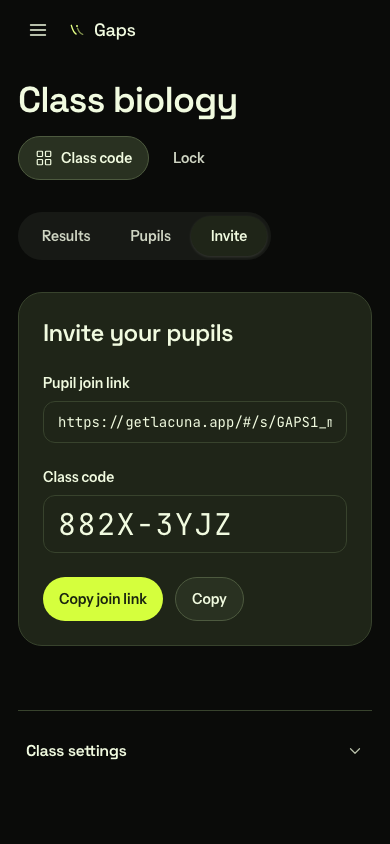
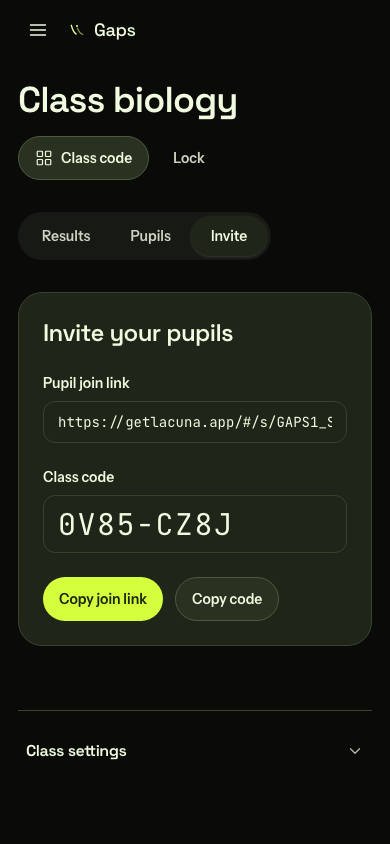
Handle classroom bursts of class-code lookups
Shard class-code counters, back off CAS contention and retry temporary client lookup failures. Keep other limiter scopes unchanged and refresh the Copy code evidence.

diff --git a/relay/tests/rateLimit.test.ts b/relay/tests/rateLimit.test.ts
@@ -1,0 +1,97 @@
+import { expect, it, vi } from 'vitest';
+import { handleAiMaintenanceRoute, AI_CLEANUP_GRACE_MS } from '../src/aiMaintenance.js';
+import {
+  consumeCounterPermit,
+  consumeRatePermit,
+  encodeRateRecord,
+  RATE_KEY_RE,
+  rateLimitForKey,
+} from '../src/rateLimit.js';
+import { MemoryStore } from '../src/store.js';
+
+const digest = 'a'.repeat(64);
+const shard = `ai-rate/class-code/${digest}/15`;
+
+it('accepts shard suffixes only on class-code keys and preserves legacy limits', () => {
+  expect(RATE_KEY_RE.test(shard)).toBe(true);
+  expect(rateLimitForKey(shard)).toBe(38);
+  expect(RATE_KEY_RE.test(`ai-rate/class-code/${digest}`)).toBe(true);
+  expect(rateLimitForKey(`ai-rate/class-code/${digest}`)).toBe(600);
+  for (const suffix of ['16', '-1', '00', '1/2'])
+    expect(RATE_KEY_RE.test(`ai-rate/class-code/${digest}/${suffix}`)).toBe(false);
+  for (const scope of ['pairing', 'channel-mint', 'share-mint', 'insights']) {
+    expect(RATE_KEY_RE.test(`ai-rate/${scope}/${digest}`)).toBe(true);
+    expect(RATE_KEY_RE.test(`ai-rate/${scope}/${digest}/0`)).toBe(false);
+    expect(rateLimitForKey(`ai-rate/${scope}/${digest}`)).toBe(scope === 'insights' ? 100 : 10);
+  }
+});
+
+it('tries two other distinct shards when the first shards are full', async () => {
+  const store = new MemoryStore();
+  const get = vi.spyOn(store, 'get');
+  get.mockResolvedValue({
+    body: encodeRateRecord({ version: 1, count: 38, resetAt: 3_600_000 }),
+    etag: '"1"',
+    uploadedAt: 0,
+  });
+  const request = new Request('https://relay.test');
+  expect(await consumeRatePermit(store, request, 0, 'class-code')).toBe('limited');
+  expect(new Set(get.mock.calls.map(([key]) => key)).size).toBe(3);
+  get.mockClear();
+  get
+    .mockResolvedValueOnce({
+      body: encodeRateRecord({ version: 1, count: 38, resetAt: 3_600_000 }),
+      etag: '"1"',
+      uploadedAt: 0,
+    })
+    .mockResolvedValueOnce(null);
+  expect(await consumeRatePermit(store, request, 0, 'class-code')).toBe('allowed');
+  expect(get).toHaveBeenCalledTimes(2);
+});
+
+it.each([
+  ['class-code', 8],
+  ['pairing', 5],
+] as const)('bounds %s CAS retries at %s attempts', async (scope, attempts) => {
+  const store = new MemoryStore();
+  const put = vi.spyOn(store, 'put').mockResolvedValue({ ok: false, reason: 'precondition' });
+  expect(
+    await consumeCounterPermit(store, `ai-rate/${scope}/${digest}/0`, 0, {
+      limit: 38,
+      windowMs: 3_600_000,
+    }),
+  ).toBe('unavailable');
+  expect(put).toHaveBeenCalledTimes(attempts);
+});
+
+it('retains active shards and clears expired shards and legacy counters during maintenance', async () => {
+  const store = new MemoryStore(() => 0);
+  vi.stubEnv('CRON_SECRET', 'test-cron');
+  const cleanup = async (now: number) => {
+    const response = await handleAiMaintenanceRoute(
+      store,
+      new Request('https://relay.test/ai/maintenance', {
+        headers: { Authorization: 'Bearer test-cron' },
+      }),
+      now,
+    );
+    return response.json() as Promise<{ rateRecordsDeleted: number }>;
+  };
+  const legacy = `ai-rate/class-code/${digest}`;
+  for (const [key, count] of [
+    [shard, 38],
+    [legacy, 600],
+  ] as const)
+    await store.put(key, encodeRateRecord({ version: 1, count, resetAt: 3_600_000 }), {
+      exclusive: true,
+    });
+  expect((await cleanup(AI_CLEANUP_GRACE_MS)).rateRecordsDeleted).toBe(0);
+  expect((await cleanup(AI_CLEANUP_GRACE_MS + 3_600_000)).rateRecordsDeleted).toBe(2);
+  vi.unstubAllEnvs();
+  for (const key of [shard, legacy])
+    expect(JSON.parse(new TextDecoder().decode((await store.get(key))!.body))).toEqual({
+      version: 1,
+      count: 0,
+      resetAt: 0,
+    });
+});

diff --git a/relay/src/rateLimit.ts b/relay/src/rateLimit.ts
@@ -1,4 +1,4 @@
-import { createHash } from 'node:crypto';
+import { createHash, randomInt } from 'node:crypto';
 import { canonicalEtag, type BlobStore } from './store.js';
 
 // Persisted per-address limiter for anonymous mints and AI pairing. Counters live in the same
@@ -7,7 +7,7 @@ const RATE_LIMIT = 10;
 const RATE_WINDOW_MS = 60 * 60 * 1000;
 const RATE_LIMIT_CAS_ATTEMPTS = 5;
 export const RATE_KEY_RE =
-  /^ai-rate\/(?:pairing|channel-mint|share-mint|insights|class-code)\/[0-9a-f]{64}$/;
+  /^ai-rate\/(?:(?:pairing|channel-mint|share-mint|insights)\/[0-9a-f]{64}|class-code\/[0-9a-f]{64}(?:\/(?:[0-9]|1[0-5]))?)$/;
 
 export type RateScope = 'pairing' | 'channel-mint' | 'share-mint' | 'insights' | 'class-code';
 
@@ -28,14 +28,22 @@ export async function consumeRatePermit(
   scope: RateScope,
 ): Promise<RatePermit> {
   const key = rateKey(scope, trustedClientAddress(request));
-  return consumeCounterPermit(store, key, now, {
-    limit: rateLimitForKey(key),
-    windowMs: RATE_WINDOW_MS,
-  });
+  const shards = Array.from({ length: 16 }, (_, index) => index);
+  for (let attempt = 0; attempt < (scope === 'class-code' ? 3 : 1); attempt += 1) {
+    const counterKey =
+      scope === 'class-code' ? `${key}/${shards.splice(randomInt(shards.length), 1)[0]}` : key;
+    const permit = await consumeCounterPermit(store, counterKey, now, {
+      limit: rateLimitForKey(counterKey),
+      windowMs: RATE_WINDOW_MS,
+    });
+    if (permit !== 'limited') return permit;
+  }
+  return 'limited';
 }
 
 export function rateLimitForKey(key: string): number {
-  if (key.startsWith('ai-rate/class-code/')) return 600;
+  // Retain the old unsharded limit so maintenance can decode records from before sharding.
+  if (key.startsWith('ai-rate/class-code/')) return key.split('/').length === 4 ? 38 : 600;
   return key.startsWith('ai-rate/insights/') ? 100 : RATE_LIMIT;
 }
 
@@ -46,7 +54,11 @@ export async function consumeCounterPermit(
   now: number,
   policy: { limit: number; windowMs: number },
 ): Promise<RatePermit> {
-  for (let attempt = 0; attempt < RATE_LIMIT_CAS_ATTEMPTS; attempt += 1) {
+  const classCode = key.startsWith('ai-rate/class-code/');
+  const attempts = classCode ? 8 : RATE_LIMIT_CAS_ATTEMPTS;
+  for (let attempt = 0; attempt < attempts; attempt += 1) {
+    if (classCode && attempt > 0)
+      await new Promise((resolve) => setTimeout(resolve, randomInt(5, 41)));
     const stored = await store.get(key);
     if (!stored) {
       const created = await store.put(

diff --git a/src/shareLinks/client.test.ts b/src/shareLinks/client.test.ts
@@ -231,4 +231,33 @@ it.each([404, 429])('exposes short-code lookup HTTP %s as a typed error', async 
   }).catch((cause: unknown) => cause);
   expect(error).toBeInstanceOf(ShareLinkError);
   expect(error).toMatchObject({ status, operation: 'fetch' });
+  expect(fetchImpl).toHaveBeenCalledTimes(1);
+});
+
+it.each([200, 503])('retries short-code 503 responses twice before HTTP %s', async (status) => {
+  vi.useFakeTimers();
+  const random = vi.spyOn(Math, 'random').mockReturnValue(0.999);
+  try {
+    const fetchImpl = vi
+      .fn()
+      .mockResolvedValueOnce(jsonResponse(503, {}))
+      .mockResolvedValueOnce(jsonResponse(503, {}))
+      .mockResolvedValueOnce(jsonResponse(status, { shareId: 'a'.repeat(32) }));
+    const result = resolveShortClassCode({
+      relayUrl: RELAY_URL,
+      code: 'K7QM4XTP',
+      fetchImpl,
+    }).catch((cause: unknown) => cause);
+    await vi.advanceTimersByTimeAsync(299);
+    expect(fetchImpl).toHaveBeenCalledTimes(1);
+    await vi.advanceTimersByTimeAsync(701);
+    expect(fetchImpl).toHaveBeenCalledTimes(2);
+    await vi.advanceTimersByTimeAsync(1000);
+    if (status === 200) expect(await result).toBe('a'.repeat(32));
+    else expect(await result).toMatchObject({ status: 503, operation: 'fetch' });
+    expect(fetchImpl).toHaveBeenCalledTimes(3);
+  } finally {
+    random.mockRestore();
+    vi.useRealTimers();
+  }
 });

diff --git a/relay/tests/classCodes.test.ts b/relay/tests/classCodes.test.ts
@@ -115,10 +115,25 @@ it.each(['k7qm4xtp', 'K7QM-4XTP', 'K7QM4XTU', '1234567', '123456789'])(
   },
 );
 
-it('admits 600 lookups from one address, limits the 601st and resets after an hour', async () => {
+it('admits 35 simultaneous valid lookups from one classroom address', async () => {
   const f = await fixture();
   const code = await f.allocate();
-  for (let i = 0; i < 600; i++) expect((await f.lookup(code)).status).toBe(200);
+  const responses = await Promise.all(Array.from({ length: 35 }, () => f.lookup(code)));
+  expect(responses.map((response) => response.status)).toEqual(Array(35).fill(200));
+});
+
+it('bounds the hourly allowance at 608 and resets after an hour', async () => {
+  const f = await fixture();
+  const code = await f.allocate();
+  let allowed = 0;
+  for (let i = 0; i < 1000; i++) {
+    const response = await f.lookup(code);
+    expect([200, 429]).toContain(response.status);
+    if (response.status === 200) allowed++;
+    if (i >= 900) expect(response.status).toBe(429);
+  }
+  expect(allowed).toBeGreaterThan(550);
+  expect(allowed).toBeLessThanOrEqual(608);
   const limited = await f.lookup(code);
   expect(limited.status).toBe(429);
   expect(await limited.json()).toEqual({ error: 'rate limited' });

diff --git a/src/shareLinks/client.ts b/src/shareLinks/client.ts
@@ -435,18 +435,26 @@ export async function resolveShortClassCode(options: {
   signal?: AbortSignal;
 }): Promise<string> {
   const relay = relayFor(options.relayUrl, 'fetch');
-  const response = await shareFetch(
-    requireFetch(options.fetchImpl),
-    `${relay}/class-codes/${encodeURIComponent(options.code)}`,
-    {
-      method: 'GET',
-      signal: options.signal,
-      cache: 'no-store',
-      credentials: 'omit',
-      redirect: 'error',
-    },
-    'fetch',
-  );
+  let response: Response;
+  for (let attempt = 0; ; attempt += 1) {
+    if (attempt > 0) {
+      await new Promise((resolve) => setTimeout(resolve, 300 + Math.floor(Math.random() * 701)));
+      options.signal?.throwIfAborted();
+    }
+    response = await shareFetch(
+      requireFetch(options.fetchImpl),
+      `${relay}/class-codes/${encodeURIComponent(options.code)}`,
+      {
+        method: 'GET',
+        signal: options.signal,
+        cache: 'no-store',
+        credentials: 'omit',
+        redirect: 'error',
+      },
+      'fetch',
+    );
+    if (response.status !== 503 || attempt === 2) break;
+  }
   if (response.status === 404 || response.status === 429)
     throw new ShareLinkError(
       response.status === 404

diff --git a/tests/e2e/gaps-daily-flow.spec.ts b/tests/e2e/gaps-daily-flow.spec.ts
@@ -153,6 +153,7 @@ test('relays a consenting pupil’s study evidence into the separate teacher wor
     await expect(teacher.getByLabel('Class code', { exact: true })).toHaveValue(
       /^[0-9A-Z]{4}-[0-9A-Z]{4}$/,
     );
+    await expect(teacher.getByRole('button', { name: 'Copy code', exact: true })).toBeVisible();
     const code = await teacher.getByLabel('Class code', { exact: true }).inputValue();
     expect(code).toMatch(/^[0-9ABCDEFGHJKMNPQRSTVWXYZ]{4}-[0-9ABCDEFGHJKMNPQRSTVWXYZ]{4}$/);
     const link = await teacher.getByLabel('Pupil join link', { exact: true }).inputValue();

diff --git a/src/teacher/TeacherClassReports.test.tsx b/src/teacher/TeacherClassReports.test.tsx
@@ -221,7 +221,7 @@ it('explains an empty day without claiming no study and leads to the class code'
     /\/s\/GAPS1_/,
   );
   expect(screen.queryByText(/GAPS1_/)).not.toBeInTheDocument();
-  expect(screen.getByRole('button', { name: /^Copy$/ })).toBeVisible();
+  expect(screen.getByRole('button', { name: 'Copy code' })).toBeVisible();
 });
 
 it('reads an earlier day on request and keeps days already read for this session', async () => {

diff --git a/src/teacher/TeacherClassReports.tsx b/src/teacher/TeacherClassReports.tsx
@@ -1379,7 +1379,7 @@ function Invite({
                 className={`${buttonClassName('secondary')} gaps-press`}
                 onClick={() => void copy(shortCode, 'Class code copied')}
               >
-                Copy
+                Copy code
               </button>
             )}
             {copied && (

diff --git a/docs/changes/unreleased/gaps-short-class-codes.md b/docs/changes/unreleased/gaps-short-class-codes.md
@@ -1,1 +1,2 @@
 - Add eight-character Gaps class codes for pupils to type, while keeping pinned teacher fingerprints in join links.
+- Allow classroom bursts of class-code lookups with sharded rate counters and retry temporary lookup failures. Label the invitation action “Copy code”. (#644)
